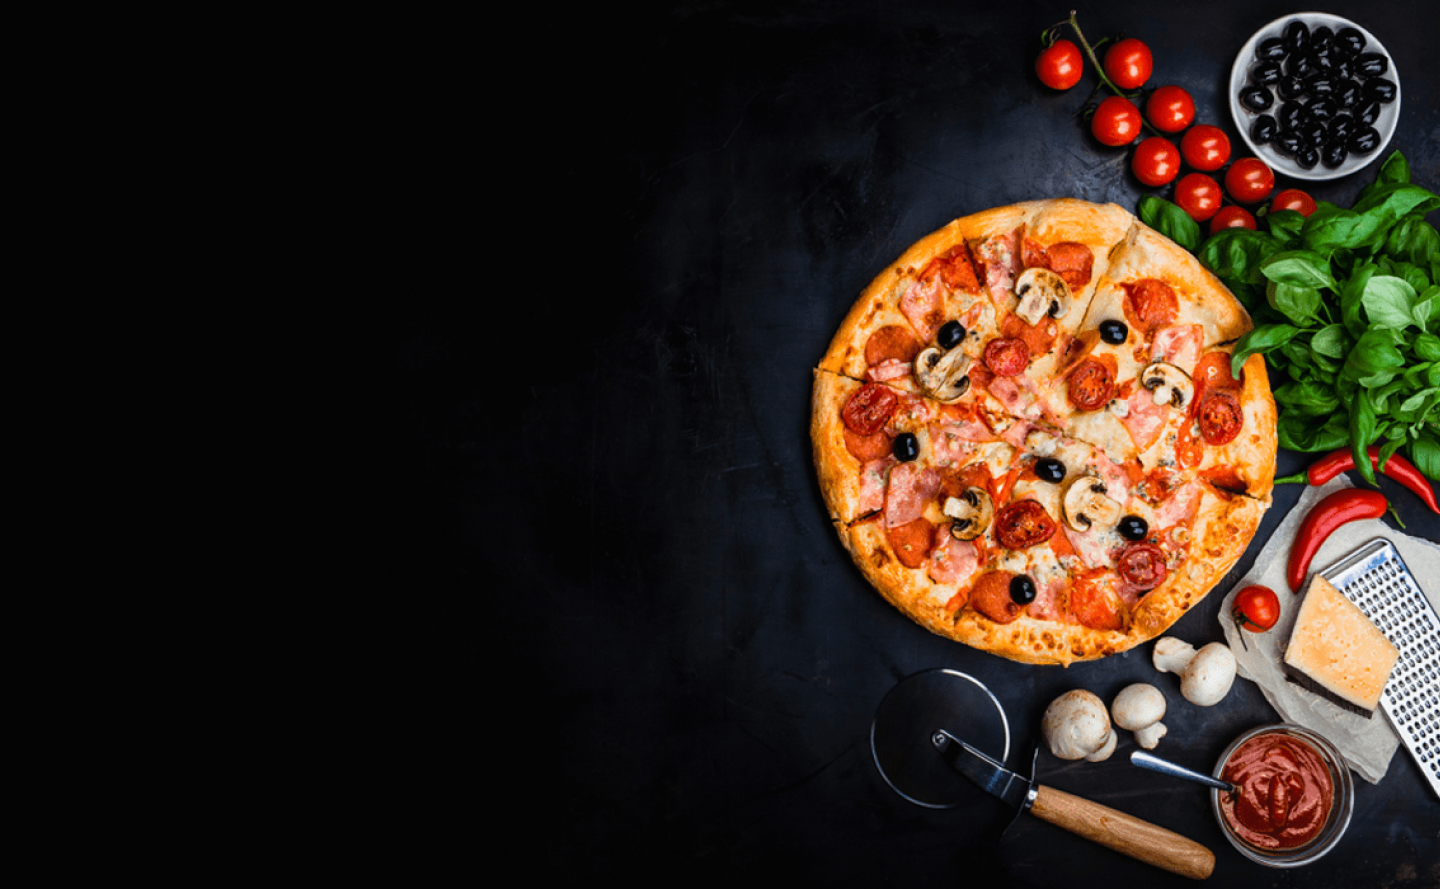
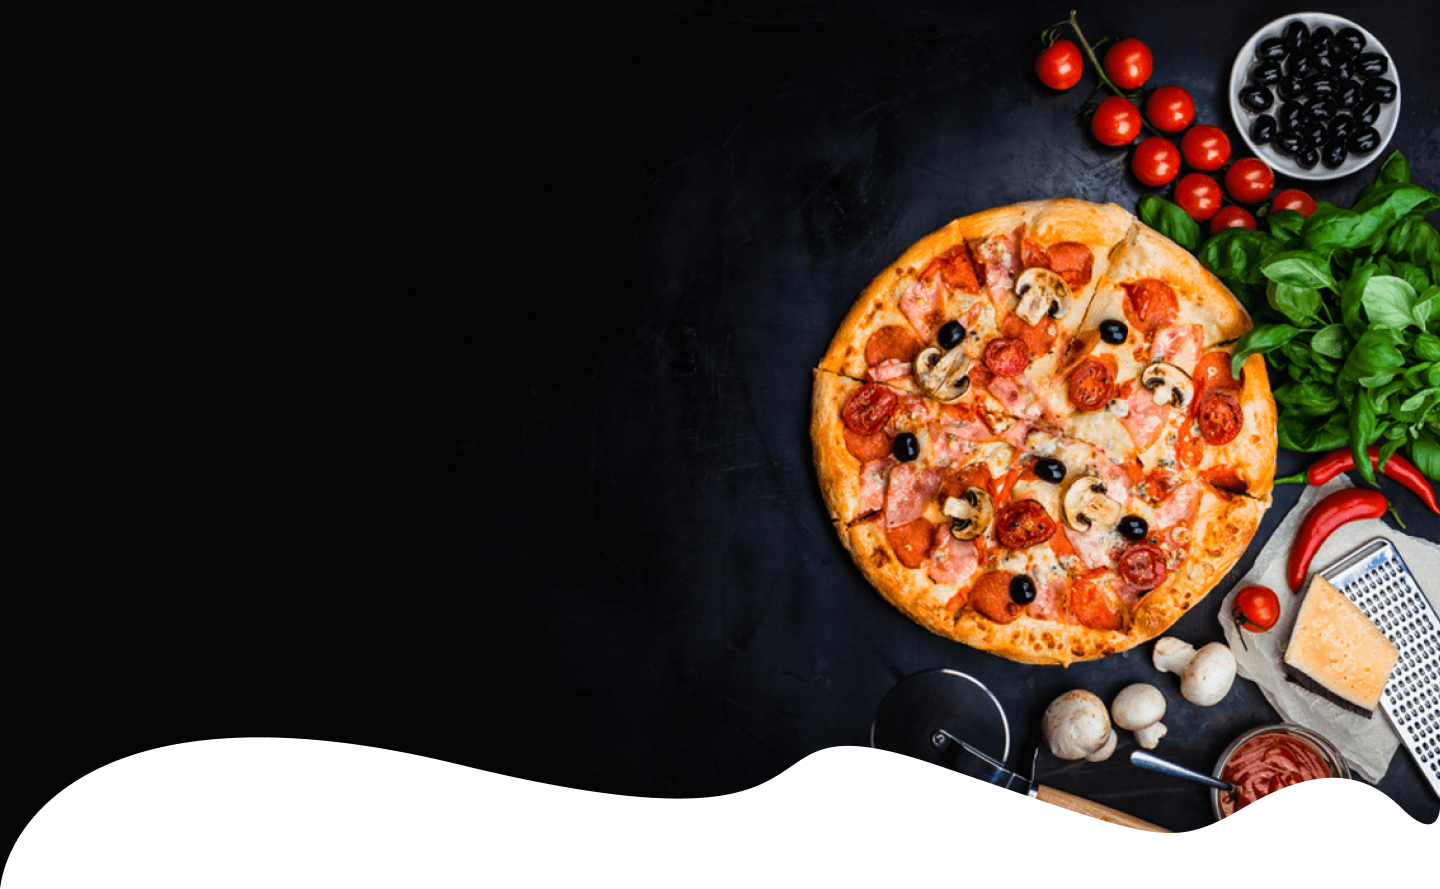
menu

Changed region(s): [[0.0, 0.82, 1.0, 1.0]]

diff --git a/src/components/navbar.jsx b/src/components/navbar.jsx
@@ -2,59 +2,97 @@ import { useState } from "react";
 import { navLinks } from "../constants";
 import { heroimg, menu, close } from "../assets";
 import { Button } from ".";
+import styles from "../styles";
 
 const navbar = () => {
   const [active, setActive] = useState("Home");
   const [toggle, setToggle] = useState(false);
 
   return (
-    <nav className="w-full relative flex flex-row justify-between items-center font-poppins px-[1rem] pt-[2rem] md:px-[8rem] uppercase">
-      <img src={heroimg} className="w-full absolute top-0 right-0 z-0" />
-      <h1 className="text-primary font-bold z-10 text-[20px]">foodmood</h1>
-      <ui className="md:flex flex-row list-none text-primary items-center z-10 font-semibold hidden">
-        {navLinks.map((nav) => (
-          <li
-            className={`me-10 cursor-pointer ${
-              active === nav.title ? "text-yellow" : "text-primary"
-            }`}
-            onClick={() => setActive(nav.title)}
+    <>
+      <nav
+        className={`w-full relative flex flex-row justify-between items-center font-poppins pt-[2rem] uppercase ${styles.container}`}
+      >
+        <h1 className="text-primary font-bold text-[20px]">foodmood</h1>
+        <ui className="md:flex flex-row list-none text-primary items-center font-semibold hidden">
+          {navLinks.map((nav) => (
+            <li
+              className={`me-10 cursor-pointer ${
+                active === nav.title ? "text-yellow" : "text-primary"
+              }`}
+              onClick={() => setActive(nav.title)}
+            >
+              <a href={`#${nav.id}`}>{nav.title}</a>
+            </li>
+          ))}
+
+          <Button title="Download App" px="px-[40px]" />
+        </ui>
+
+        <div className="md:hidden flex justify-end items-center">
+          <img
+            src={toggle ? close : menu}
+            alt="menu"
+            className="w-[28px] h-[28px] object-contain"
+            onClick={() => setToggle(!toggle)}
+          />
+
+          <div
+            className={`${
+              !toggle ? "hidden" : "flex"
+            } bg-primary absolute top-20 right-0 mt-2 p-6 min-w-full rounded-xl`}
           >
-            <a href={`#${nav.id}`}>{nav.title}</a>
-          </li>
-        ))}
+            <ul
+              className={`list-none flex ${styles.flexCenter} flex-1 flex-col uppercase font-poppins font-semibold`}
+            >
+              {navLinks.map((nav, index) => (
+                <li
+                  key={nav.id}
+                  className={`cursor-pointer text-[16px] ${
+                    active === nav.title ? "text-yellow" : "text-secondary"
+                  } ${index === navLinks.length - 1 ? "mb-0" : "mb-4"}`}
+                  onClick={() => setActive(nav.title)}
+                >
+                  <a href={`#${nav.id}`}>{nav.title}</a>
+                </li>
+              ))}
+            </ul>
+          </div>
+        </div>
+      </nav>
 
-        <Button title="Download App" />
-      </ui>
-
-      <div className="sm:hidden flex justify-end items-center z-20">
-        <img
-          src={toggle ? close : menu}
-          alt="menu"
-          className="w-[28px] h-[28px] object-contain"
-          onClick={() => setToggle(!toggle)}
+      <section className={`font-poppins text-primary ${styles.container}`}>
+        <p className="font-semibold text-[19px] mt-[1rem] sm:mt-[5rem] md:text-[30px]">
+          Only $15.00
+        </p>
+        <h2 className="font-bold text-[30px] mt-2 md:mt-5 md:text-[50px]">
+          AUTHENTIC ITALIAN PIZZA
+        </h2>
+        <div className="hidden flex-row items-center mt-10 md:flex">
+          <div
+            class={`relative w-[8rem] h-[8rem] bg-yellow rounded-full ${styles.flexCenter} text-center p-5 shadow-xl text-[20px] font-bold xl:text-[42px] xl:w-[14rem] xl:h-[14rem]`}
+          >
+            <span class="absolute text-[4.5rem] left-0 top-0 text-red-600 leading-none font-semibold xl:text-[8rem]">
+              !
+            </span>
+            20% Discount
+          </div>
+          <p className="font-normal text-[25px] w-[40%] ms-6 xl:text-[50px] xl:w-[30%]">
+            On your first order, if you order online through our App!
+          </p>
+        </div>
+        <Button
+          title="ORDER ONLINE"
+          mt="mt-[0.5rem] xl:mt-[12rem] lg:mt-[4rem]"
+          px="px-[60px]"
         />
 
-        <div
-          className={`${
-            !toggle ? "hidden" : "flex"
-          } bg-primary absolute top-20 right-0 mt-2 p-6 min-w-full rounded-xl`}
-        >
-          <ul className="list-none flex justify-center items-center flex-1 flex-col uppercase font-poppins font-semibold">
-            {navLinks.map((nav, index) => (
-              <li
-                key={nav.id}
-                className={`cursor-pointer text-[16px] ${
-                  active === nav.title ? "text-yellow" : "text-secondary"
-                } ${index === navLinks.length - 1 ? "mb-0" : "mb-4"}`}
-                onClick={() => setActive(nav.title)}
-              >
-                <a href={`#${nav.id}`}>{nav.title}</a>
-              </li>
-            ))}
-          </ul>
-        </div>
-      </div>
-    </nav>
+        <img
+          src={heroimg}
+          className="w-full absolute top-0 right-0 z-[-10] md:h-screen object-cover"
+        />
+      </section>
+    </>
   );
 };
 

diff --git a/src/constants/index.js b/src/constants/index.js
@@ -1,3 +1,5 @@
+import { pizza, pasta, shakes, burger } from "../assets";
+
 export const navLinks = [
   {
     id: "home",
@@ -18,5 +20,32 @@ export const navLinks = [
   {
     id: "contact",
     title: "Contact",
+  },
+];
+
+export const categories = [
+  {
+    id: "pizza",
+    title: "Pizza",
+    num: "20 Restaurants Foods",
+    image: pizza,
+  },
+  {
+    id: "pasta",
+    title: "Pasta",
+    num: "15 Restaurants Foods",
+    image: pasta,
+  },
+  {
+    id: "shakes",
+    title: "Shakes",
+    num: "20 Restaurants Foods",
+    image: shakes,
+  },
+  {
+    id: "burger",
+    title: "Burger",
+    num: "25 Restaurants Foods",
+    image: burger,
   },
 ];

diff --git a/src/components/menu.jsx b/src/components/menu.jsx
@@ -1,0 +1,21 @@
+import styles from "../styles";
+import MenuCard from "./menuCard";
+import { categories } from "../constants";
+
+const menu = () => (
+  <section
+    id="menu"
+    className={`${styles.container} ${styles.flexCenter} flex-col mt-[15rem]`}
+  >
+    <p className={`${styles.paragraph} text-yellow font-semibold`}>TOP FOODS</p>
+    <h2 className={`${styles.heading2} font-bold`}>Our Categories</h2>
+
+    <div className="flex flex-row">
+      {categories.map((category) => (
+        <MenuCard key={category.id} {...category} />
+      ))}
+    </div>
+  </section>
+);
+
+export default menu;

diff --git a/src/styles.js b/src/styles.js
@@ -1,0 +1,12 @@
+const styles = {
+  container: "px-[1rem] md:px-[8rem]",
+
+  flexCenter: "flex justify-center items-center",
+  flexStart: "flex justify-center items-start",
+
+  heading2:
+    "font-poppins xs:text-[48px] text-[40px] xs:leading-[76.8px] leading-[66.8px]",
+  paragraph: "font-poppins text-[18px] leading-[30.8px]",
+};
+
+export default styles;

diff --git a/src/assets/index.js b/src/assets/index.js
@@ -1,5 +1,9 @@
 import heroimg from "./heroimg.png";
+import pizza from "./pizza.png";
+import pasta from "./pasta.png";
+import shakes from "./shakes.png";
+import burger from "./burger.png";
 import menu from "./menu.svg";
 import close from "./close.svg";
 
-export { heroimg, menu, close };
+export { heroimg, menu, close, pizza, pasta, shakes, burger };

diff --git a/src/components/menuCard.jsx b/src/components/menuCard.jsx
@@ -1,0 +1,11 @@
+import styles from "../styles";
+
+const menuCard = ({ image, title, num }) => (
+  <div className={`${styles.flexCenter} flex-col me-10 font-poppins`}>
+    <img src={image} className="" />
+    <h2 className="text-[25px] font-bold">{title}</h2>
+    <p className="text-[20px] font-bold">{num}</p>
+  </div>
+);
+
+export default menuCard;

diff --git a/tailwind.config.js b/tailwind.config.js
@@ -13,11 +13,12 @@ export default {
       },
     },
     screens: {
-      sm: "640px",
-      md: "768px",
-      lg: "1024px",
-      xl: "1280px",
-      xxl: "1536px",
+      xs: "480px",
+      ss: "620px",
+      sm: "768px",
+      md: "1060px",
+      lg: "1200px",
+      xl: "1700px",
     },
   },
   plugins: [],

diff --git a/src/components/button.jsx b/src/components/button.jsx
@@ -1,5 +1,7 @@
 const button = (props) => (
-  <button className="bg-yellow text-primary px-[40px] py-[15px]">
+  <button
+    className={`bg-yellow text-primary py-[15px] font-bold font-poppins ${props.mt} ${props.px}`}
+  >
     {props.title}
   </button>
 );

diff --git a/src/App.jsx b/src/App.jsx
@@ -1,8 +1,9 @@
-import { Navbar } from "./components";
+import { Menu, Navbar } from "./components";
 
 const App = () => (
   <>
     <Navbar />
+    <Menu />
   </>
 );
 

diff --git a/src/components/index.js b/src/components/index.js
@@ -1,4 +1,5 @@
 import Navbar from "./navbar";
 import Button from "./button";
+import Menu from "./menu";
 
-export { Navbar, Button };
+export { Navbar, Button, Menu };
